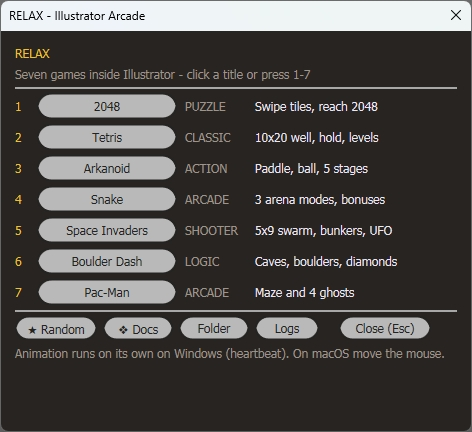
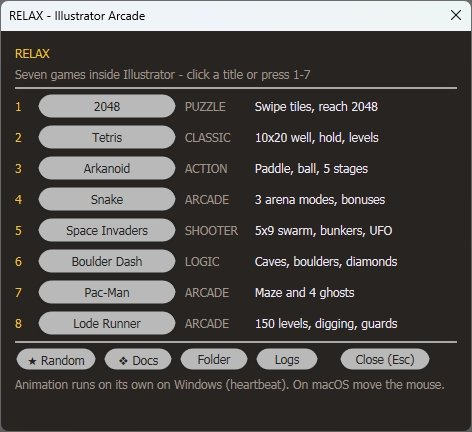
Update launcher UI and screenshot with 8 games

Changed region(s): [[0.0297, 0.6921, 0.9492, 0.9028]]

diff --git a/Play Arcade.jsx b/Play Arcade.jsx
@@ -3,7 +3,7 @@
 /**
  * RELAX - Arcade Launcher for Adobe Illustrator (ExtendScript / ScriptUI)
  *
- * One window for all seven games in this folder. Click a title or press 1-7.
+ * One window for all eight games in this folder. Click a title or press 1-8.
  * When a game window is closed the launcher comes back, so you can play the
  * next one without touching File > Scripts again.
  *
@@ -207,7 +207,7 @@
         var titleFont = makeFont(22, "BOLD");
         if (titleFont) title.graphics.font = titleFont;
 
-        var sub = win.add("statictext", undefined, "Seven games inside Illustrator - click a title or press 1-7");
+        var sub = win.add("statictext", undefined, "Eight games inside Illustrator - click a title or press 1-8");
         sub.graphics.foregroundColor = mutedPen;
         win.add("panel").preferredSize = [440, 1];
 
